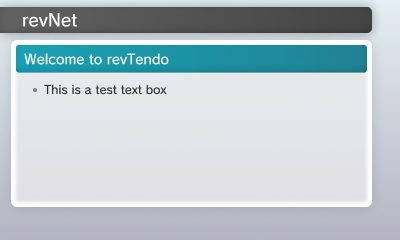
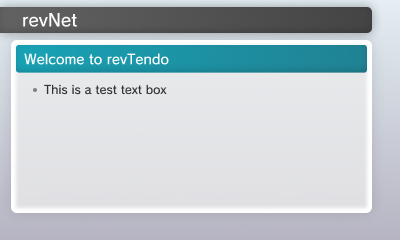
Updated controls

Changed region(s): [[0.03, 0.8458, 0.93, 0.9042]]

diff --git a/app/source/states/MainUI.cpp b/app/source/states/MainUI.cpp
@@ -396,7 +396,7 @@ bool MainUI::drawUI(MainStruct *mainStruct, C3D_RenderTarget* top_screen,
  
     C2D_SceneBegin(bottom_screen);
     C2D_DrawSprite(&mainStruct->bottom);
-    if (!mainStruct->prompt.active) DrawControls();
+    if (!mainStruct->prompt.active) DrawControls(); DrawVersionString(); //TEMPPPP
  
     if (mainStruct->buttonSelected == NascEnvironment::NASC_ENV_Prod) {
         if (mainStruct->currentAccount == NascEnvironment::NASC_ENV_Prod) {
@@ -438,7 +438,7 @@ bool MainUI::drawUI(MainStruct *mainStruct, C3D_RenderTarget* top_screen,
                 mainStruct->buttonWasPressed = true;
                 loadAndPlaySFX("romfs:/sfx/ACC_TAP.wav");
             }
-        } else if (kDown & KEY_LEFT || kDown & KEY_RIGHT) {
+        } else if (kDown & KEY_UP || kDown & KEY_DOWN) {
             mainStruct->buttonSelected =
                 mainStruct->buttonSelected == NascEnvironment::NASC_ENV_Dev
                     ? NascEnvironment::NASC_ENV_Prod
@@ -451,31 +451,6 @@ bool MainUI::drawUI(MainStruct *mainStruct, C3D_RenderTarget* top_screen,
         if (kDown & KEY_A) {
             loadAndPlaySFX("romfs:/sfx/ACC_START.wav");
             mainStruct->buttonWasPressed = true;
-        }
- 
-        if (kDown & KEY_L) {
-            loadAndPlaySFX("romfs:/sfx/ACC_TAP.wav");
- 
-            u64 freeBytes = GetSDFreeBytes();
-            mainStruct->sdFreeBytes = freeBytes;
- 
-            if (freeBytes < MIN_FREE_SPACE_BYTES) {
-                openPrompt(mainStruct,
-                    std::format(
-                        "Warning: only {} MB free on SD.\n"
-                        "This may not be enough to switch safely.\n\n"
-                        "A: Risk it    B: Cancel (free up space first)",
-                        freeBytes / (1024 * 1024)),
-                    PromptStatus::PretendoSwitchLowSD);
-            } else {
-                openPrompt(mainStruct,
-                    "Switch to Pretendo?\n\n"
-                    "This will download and install Pretendo patches,\n"
-                    "switch your account, and reboot.\n\n"
-                    "A: Switch    B: Cancel",
-                    PromptStatus::PretendoSwitch);
-            }
-            return false;
         }
  
         if (kDown & KEY_X) {

diff --git a/app/source/common.cpp b/app/source/common.cpp
@@ -49,7 +49,7 @@ void DrawString(float size, u32 color, std::string text, int flags) {
 
 void DrawControls() {
     C2D_Text c2d_text;
-    const char* text = "A: Select\nL: Switch to Pretendo\nY: Launch plugin\nX: Unlink revID";
+    const char* text = "A: Select\nX: Unlink revID\nY: Launch plugin";
     float size = 0.5f;
     int offset = 6;
     int bottomOffset = 240 - offset - (int)GetStringHeight(size, text);
@@ -69,7 +69,7 @@ CFG_Region GetSystemRegion() {
 
 void DrawVersionString() {
     C2D_Text c2d_text;
-    std::string text = std::format("{} {}.{}.{}U", APP_TITLE, VERSION_MAJOR, VERSION_MINOR, VERSION_MICRO);
+    std::string text = std::format("{}.{}.{}U", VERSION_MAJOR, VERSION_MINOR, VERSION_MICRO);
     float size = 0.5f;
     int offset = 6;
     int bottomOffset = (240 + 2)- offset; // 3ds vertical resolution - offset, but add 2 to the vertical resolution to account for the vertical padding?